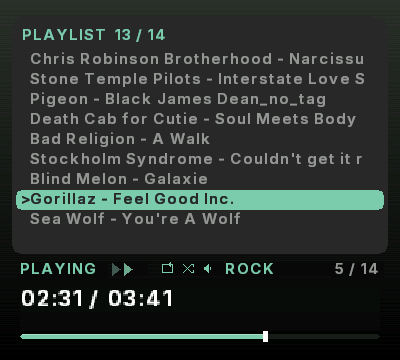
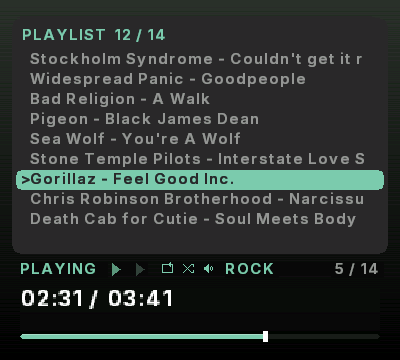
Refresh the playlist browser screenshot
New capture: the header reads 12 of 14 rather than 13, the shuffled order
differs, and the highlighted row sits mid-list with rows above and below it --
which shows the browser better than the previous one, where it was near the
bottom.

Alt text follows the capture, as it has to: it names the header count, and a
description of the previous image is exactly the stale-docs fault this pass has
been clearing out.

Recompressed to 16 KB from 1,061,865 -- the capture tool writes PNGs with
compression off. Pixel-identity verified by hashing the decoded RGB either
side, not assumed from the encoder.

Changed region(s): [[0.03, 0.1222, 0.96, 0.6417], [0.27, 0.7333, 0.36, 0.7639], [0.3, 0.0917, 0.33, 0.1222]]

diff --git a/README.md b/README.md
@@ -88,7 +88,7 @@ remembered.
 
 ### The playlist browser
 
-<img src="docs/screenshot2.png" width="280" align="right" alt="Playlist browser: a PLAYLIST 13 of 14 header above nine filename rows, with Gorillaz - Feel Good Inc. highlighted and marked by a cursor; the transport row, times and progress bar stay visible underneath">
+<img src="docs/screenshot2.png" width="280" align="right" alt="Playlist browser: a PLAYLIST 12 of 14 header above nine filename rows, with Gorillaz - Feel Good Inc. highlighted mid-list and marked by a cursor; the transport row, times and progress bar stay visible underneath">
 
 **Tap Select** to browse the playlist on screen. It opens on the track that's
 playing, so you always start from where you are. The transport row, the times
